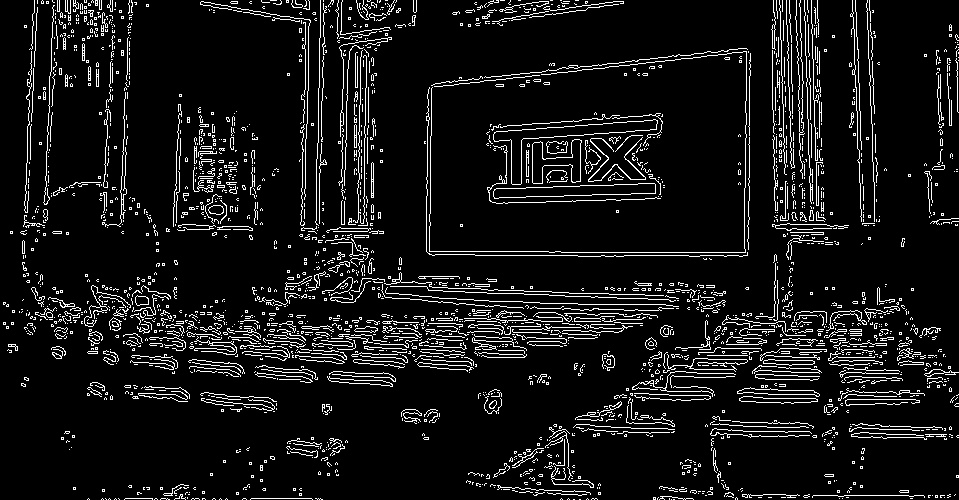
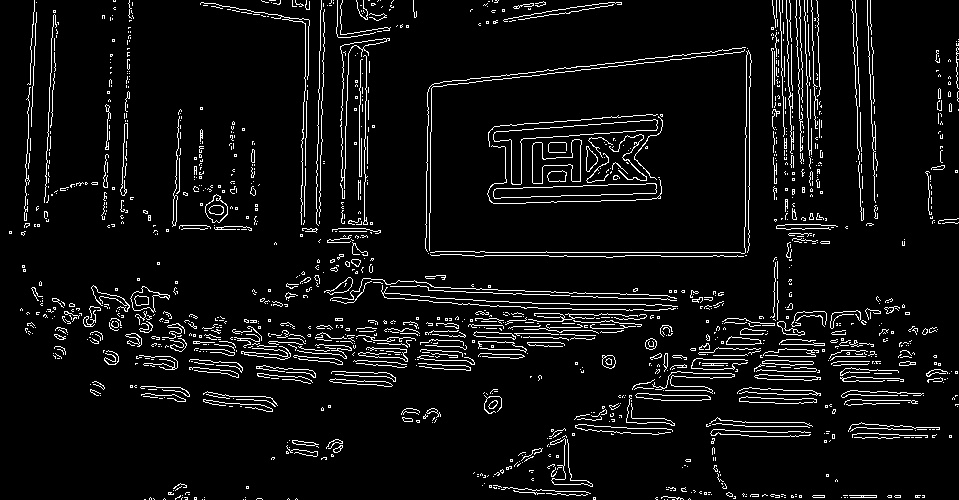
Edge detection and perspective part is completed still there is missing parts

diff --git a/preprocessing.py b/preprocessing.py
@@ -61,40 +61,97 @@ class PreProcessing:
         image = cv2.resize(image, (int(width * (500.0 / height)), 500), cv2.INTER_LINEAR)
         gray = self.gray_image(image)
         blur = self.get_blurred(gray, G)
-        th, im = cv2.threshold(image, 0, 255, cv2.THRESH_BINARY)
-        edge =  cv2.Canny(th, 100, 255)
-        self.threshold = th
+        th = cv2.adaptiveThreshold(blur, 255, cv2.ADAPTIVE_THRESH_GAUSSIAN_C, cv2.THRESH_BINARY_INV,11,2)
+        ret ,th2 = cv2.threshold(blur,0,255,cv2.THRESH_BINARY+cv2.THRESH_OTSU)
+        edge =  cv2.Canny(th, ret * 0.5, ret)
+
         return edge
 
     def get_contour(self, image):
         height, width = image.shape[:2]
         image = cv2.resize(image, (int(width * (500.0 / height)), 500), cv2.INTER_LINEAR)
-        gray = self.gray_image(image)
-        blur = self.get_blurred(gray, 9)
-        th = cv2.adaptiveThreshold(blur, 255, cv2.ADAPTIVE_THRESH_GAUSSIAN_C, cv2.THRESH_BINARY_INV,11,2)
-        ret3,th3 = cv2.threshold(blur,0,255,cv2.THRESH_BINARY+cv2.THRESH_OTSU)
-        print ret3
-        edged = cv2.Canny(th, ret3 * 0.5, ret3)
-        cv2.imshow("edged",edged)
+        edged = self.get_edged(image, 9)
+        cv2.imshow("edged", edged)
         cv2.waitKey(0)
         cv2.destroyAllWindows()
         __, contours, hierarchy = cv2.findContours(edged, cv2.RETR_LIST, cv2.CHAIN_APPROX_SIMPLE)
         
         first = False
         for cnt in contours:
-            epsilon = 0.1 * cv2.arcLength(cnt, True)
+            epsilon = 0.02 * cv2.arcLength(cnt, True)
             new_approx = cv2.approxPolyDP(cnt, epsilon, True)
             if first == False:
                 approx = cv2.approxPolyDP(cnt, epsilon, True)
                 first = True
             elif cv2.contourArea(approx) < cv2.contourArea(new_approx):
                 approx = new_approx
-
-
         cv2.drawContours(image, [approx], -1, (0, 255, 0), 2)
-        cv2.imshow("Contours",image)
+        cv2.imshow("edged", image)
         cv2.waitKey(0)
         cv2.destroyAllWindows()
+        return approx, image
+        
+    def order_contour(self, points):
+        ordered_points = np.zeros((4, 2), dtype = "float32")
+        #sum of point to detect max and minimum sums
+        #maximum sum is the right bottom corner and minimum left top corner
+        #points are arranged starting from top left to clock wise indexing
+        sum_point = points.sum(axis = 2)
+        
+        ordered_points[0] = points[np.argmin(sum_point)].flatten()
+        ordered_points[2] = points[np.argmax(sum_point)].flatten()
+        
+        points = np.delete(points, np.argmin(sum_point), 0)
+        points = np.delete(points, np.argmax(sum_point) - 1, 0)
+        if points[0][0][0] > points[1][0][0]:
+            ordered_points[1] = points[0][0].copy()
+            ordered_points[3] = points[1][0].copy()
+        else:
+            ordered_points[1] = points[1][0].copy()
+            ordered_points[3] = points[0][0].copy()
+
+        return ordered_points
+
+    def check_points(self, points):
+        if len(points) == 4:
+            return True 
+        else:
+            return False
+
+    def distance_calculator(self, p1, p2):
+        '''Calculates distance between 2 points'''
+        return math.sqrt((p1[0] - p2[0]) ** 2 + (p1[1] - p2[1]) ** 2)
+
+    def get_perspective(self, image, points):
+        if self.check_points(points):
+            height, width = image.shape[:2]
+            image = cv2.resize(image, (int(width * (500.0 / height)), 500), cv2.INTER_LINEAR)
+            ordered_points = self.order_contour(points)
+            width_top = self.distance_calculator(ordered_points[0], ordered_points[1])
+            width_bottom = self.distance_calculator(ordered_points[2], ordered_points[3])
+            
+            width_perspective = int(max(width_top, width_bottom))
+            
+            height_left = self.distance_calculator(ordered_points[0], ordered_points[3])
+            height_right = self.distance_calculator(ordered_points[1], ordered_points[2])
+
+            height_perspective = int(max(height_left, height_right))
+
+            img_size = np.array([[0, 0], [width_perspective - 1, 0], [width_perspective - 1, height_perspective -1], \
+                [0, height_perspective - 1]], dtype = "float32")
+            print points
+            print ordered_points
+            M = cv2.getPerspectiveTransform(ordered_points, img_size)
+
+            warped_image = cv2.warpPerspective(image, M, (width_perspective, height_perspective))
+            cv2.imshow("warped", warped_image)
+            cv2.waitKey(0)
+            cv2.destroyAllWindows()
+            return warped_image
+        else:
+            #for now pass in future turn back to starting point of process.
+            pass
+
 
     def get_scaled(self):
         '''Scales image short edge to L value '''
@@ -138,7 +195,7 @@ class PreProcessing:
 
     def get_blurred(self, image, G):
         '''Blurring cropped image'''
-        image = cv2.GaussianBlur(image, (G, G), 0)
+        image = cv2.GaussianBlur(image, (G, G), 0, 0)
         return image
 
     # #(optional area)
@@ -362,7 +419,8 @@ yunus = PreProcessing(image, 128, False)
 # points_new = np.asarray(points_new, dtype = "float32")
 
 # warped = yunus.get_perspective(image, points_new)
-yunus.get_contour(image)
+points, image1 = yunus.get_contour(image)
+warped = yunus.get_perspective(image, points)
 image2 = yunus.get_scaled()
 image3 = yunus.get_cropped()
 image4 = yunus.get_blurred(image, 5)
@@ -375,6 +433,7 @@ cv2.imwrite("output/" + img_name[0:-4] + '_scaled.jpg', image2)
 cv2.imwrite("output/" + img_name[0:-4] + '_cropped.jpg', image3)
 cv2.imwrite("output/" + img_name[0:-4] + '_blurred.jpg', image4)
 cv2.imwrite("output/" + img_name[0:-4] + '_edged.jpg', image5)
+cv2.imwrite("output/" + img_name[0:-4] + '_warped.jpg', warped)
 
 # cv2.imwrite("output/" + img_name[0:-4] + '_lines.jpg', image6)
 # cv2.imwrite("output/" + img_name[0:-4] + '_intersection_normal.jpg', intersection_normal)
